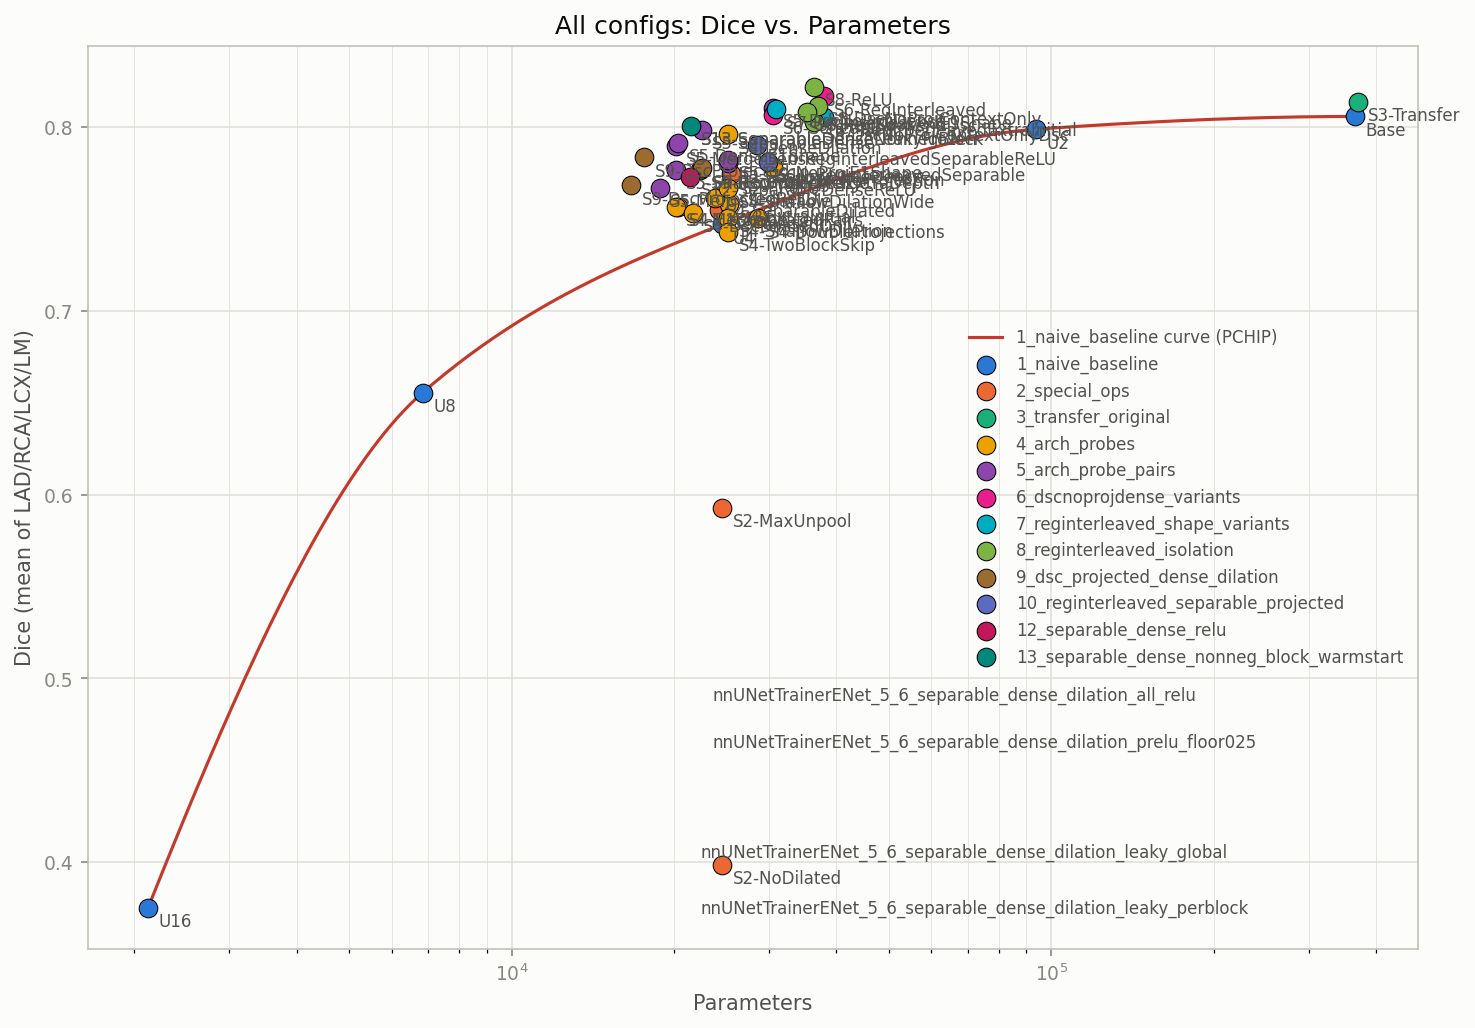
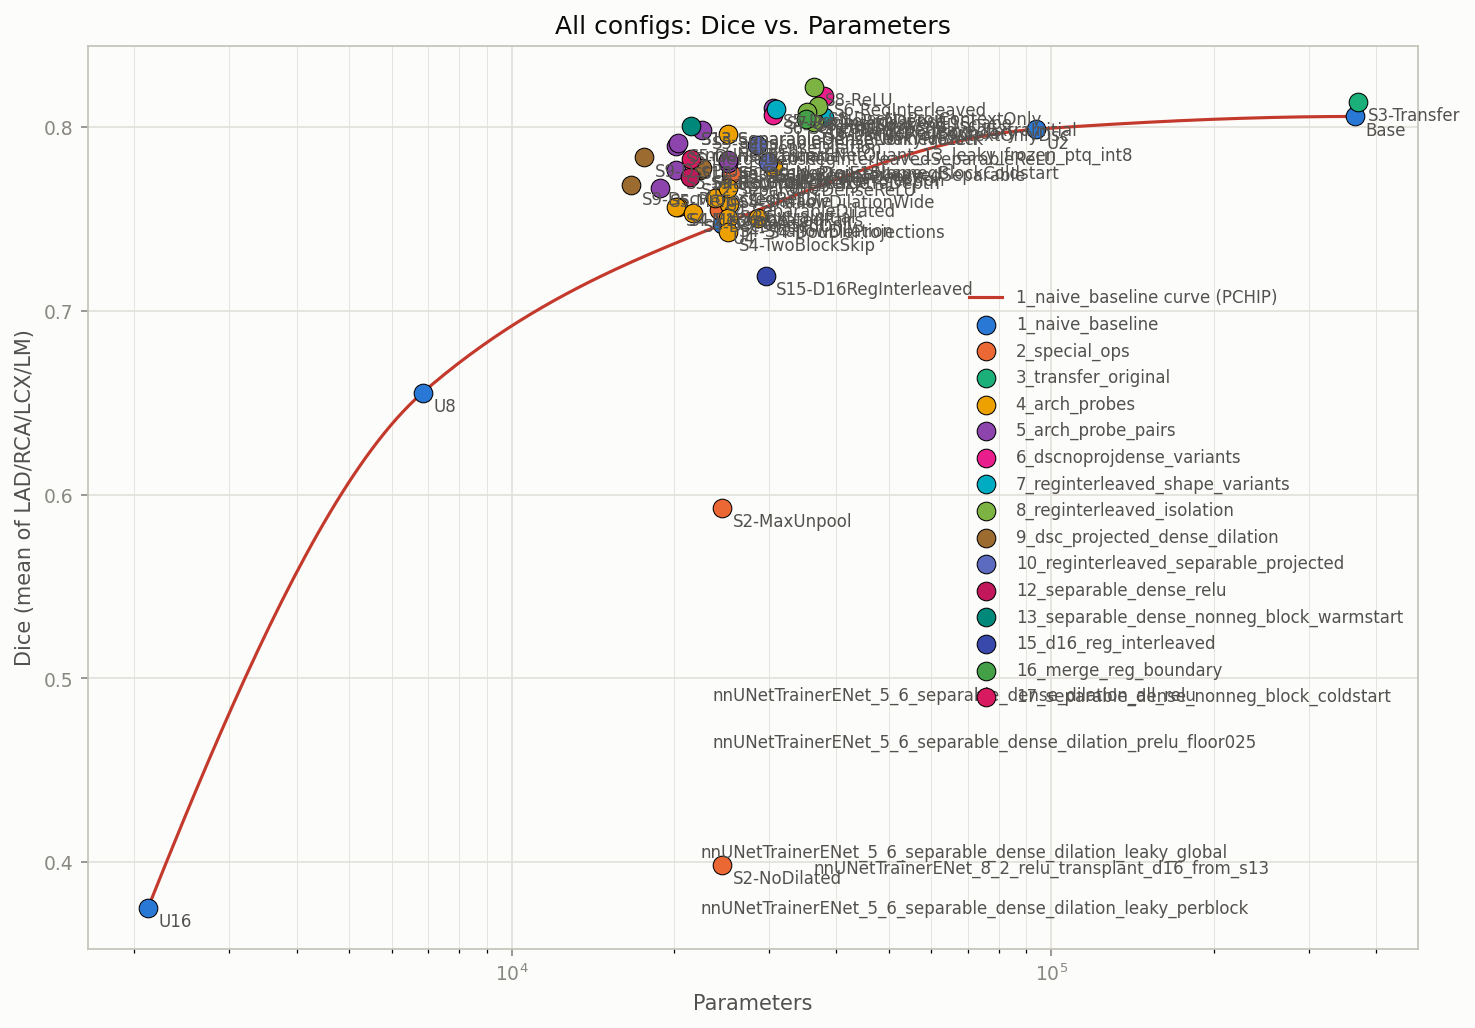
Collect S17 real results and regenerate combined all-configs plots
S17 (S13's nonneg_block architecture, cold start): dice=0.7824, params=21468
-- vs S13's warm-started dice=0.8007 at identical params, a real -0.018 gap
that isolates what the warm start bought at convergence, consistent in
magnitude with S16's own reg-bookend removal cost.

plot_all_configs.py: added stage colors for 15_d16_reg_interleaved,
16_merge_reg_boundary, and 17_separable_dense_nonneg_block_coldstart so the
combined dice-vs-params/MACs/mem-elements plots include this session's new
configs.

diff --git a/compression/plot_all_configs.py b/compression/plot_all_configs.py
@@ -39,6 +39,9 @@ STAGE_COLORS = {
     "10_reginterleaved_separable_projected": "#5c6bc0",
     "12_separable_dense_relu": "#c2185b",
     "13_separable_dense_nonneg_block_warmstart": "#00897b",
+    "15_d16_reg_interleaved": "#3949ab",
+    "16_merge_reg_boundary": "#43a047",
+    "17_separable_dense_nonneg_block_coldstart": "#d81b60",
 }
 CURVE_STAGE = "1_naive_baseline"
 CURVE_COLOR = "#c3392b"
